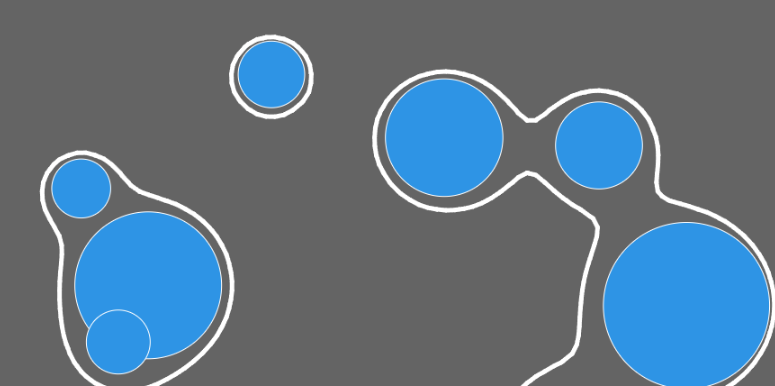
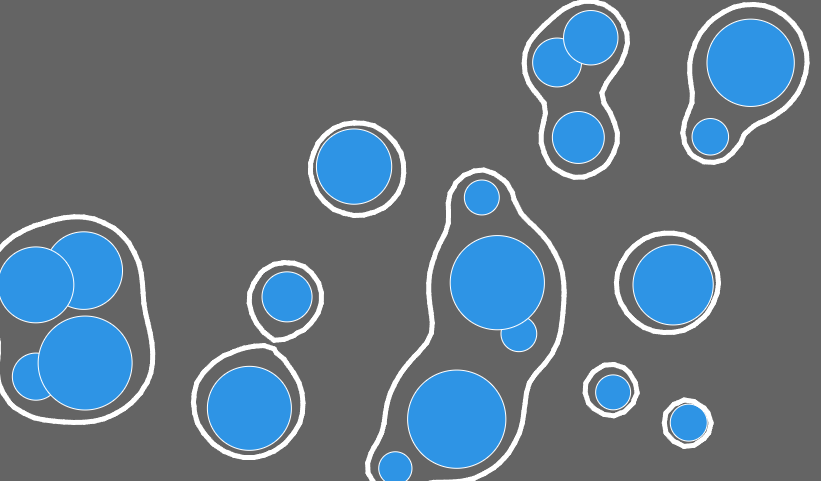
Perceptron como demo p5.js, Bubble en archivo propio, perceptron_process eliminado

diff --git a/projects/perceptron/sketch.js b/projects/perceptron/sketch.js
@@ -1,0 +1,88 @@
+/* Sketch principal — Perceptron
+ * Perceptrón de una capa entrenado sobre 1000 puntos aleatorios.
+ * La frontera de decisión se ajusta en tiempo real hasta clasificar
+ * todos los puntos correctamente. Después, haz clic para evaluar
+ * nuevos puntos.
+ */
+
+var perceptronSketch = function(p) {
+  var neuron;
+  var n = 1000;
+  var attempts = 0;
+  var points = [];
+  var finish = false;
+
+  /* Configuración: canvas, perceptrón y puntos iniciales */
+  p.setup = function() {
+    var contenedor = document.getElementById('p5-canvas');
+    var ancho = contenedor ? contenedor.clientWidth : 560;
+    var alto = contenedor ? contenedor.clientHeight : 400;
+    p.createCanvas(ancho, alto);
+    p.background(150);
+
+    neuron = new Perceptron(p);
+    points = [];
+    for (var i = 0; i < n; i++) {
+      points.push(Point.random(p));
+    }
+  };
+
+  /* Bucle principal: clasifica, dibuja y entrena */
+  p.draw = function() {
+    var done = 1;
+    p.background(150);
+
+    /* Verifica si todos los puntos están correctamente clasificados */
+    for (var i = 0; i < points.length; i++) {
+      var input = [points[i].x, points[i].y, points[i].bias];
+      if (neuron.guess(input) !== points[i].label) {
+        done = 0;
+        break;
+      }
+    }
+
+    /* Dibuja cada punto con la predicción actual */
+    for (var i = 0; i < points.length; i++) {
+      var inp = [points[i].x, points[i].y, points[i].bias];
+      points[i].display(neuron.guess(inp));
+    }
+
+    /* Línea objetivo (negra) — la función f(x) que queremos aprender */
+    var pa1 = new Point(p, -1, f(-1));
+    var pb1 = new Point(p, 1, f(1));
+    p.stroke(0);
+    p.strokeWeight(1);
+    p.line(pa1.pixelX(), pa1.pixelY(), pb1.pixelX(), pb1.pixelY());
+
+    /* Línea ajustada por el perceptrón (blanca) */
+    var px1 = new Point(p, -1, neuron.guessY(-1));
+    var py1 = new Point(p, 1, neuron.guessY(1));
+    p.stroke(255);
+    p.strokeWeight(2);
+    p.line(px1.pixelX(), px1.pixelY(), py1.pixelX(), py1.pixelY());
+
+    /* Entrena el perceptrón con todos los puntos en cada frame */
+    if (!finish) {
+      for (var i = 0; i < points.length; i++) {
+        var inp = [points[i].x, points[i].y, points[i].bias];
+        neuron.train(inp, points[i].label);
+      }
+      attempts++;
+    }
+
+    /* Cuando clasifica todos correctamente, se detiene el entrenamiento */
+    if (done === 1 && !finish) {
+      console.log('Entrenamiento completado en', attempts, 'intentos');
+      finish = true;
+    }
+  };
+
+  /* Después del entrenamiento, agrega un punto donde se hace clic */
+  p.mousePressed = function() {
+    if (!finish) return;
+    if (p.mouseX < 0 || p.mouseX > p.width || p.mouseY < 0 || p.mouseY > p.height) return;
+    var nx = p.map(p.mouseX, 0, p.width, -1, 1);
+    var ny = p.map(p.mouseY, 0, p.height, 1, -1);
+    points.push(new Point(p, nx, ny));
+  };
+};

diff --git a/projects/marching_squares/sketch.js b/projects/marching_squares/sketch.js
@@ -14,7 +14,7 @@ var marchingSquaresSketch = function(p) {
   /* Toggles visuales */
   var grid = false;
   var balls = true;
-  var inter = false;
+  var inter = true;
   var rec = false;
 
   /* Índices de esquinas para cada arista de una celda */
@@ -28,30 +28,6 @@ var marchingSquaresSketch = function(p) {
     {x: 0, y: 1}
   ];
 
-  /* Metaball que genera influencia en el campo escalar */
-  function Bubble(x, y) {
-    this.r = p.random(10, 100);
-    this.x = x !== undefined ? x : p.random(this.r, p.width - this.r);
-    this.y = y !== undefined ? y : p.random(this.r, p.height - this.r);
-    this.vx = p.random(-2, 2);
-    this.vy = p.random(-2, 2);
-  }
-
-  Bubble.prototype.show = function() {
-    p.noFill();
-    p.stroke(255);
-    p.strokeWeight(1);
-    p.fill('#2E94E5');
-    p.circle(this.x, this.y, this.r * 2);
-  };
-
-  Bubble.prototype.update = function() {
-    this.x += this.vx;
-    this.y += this.vy;
-    if (this.x > p.width - this.r || this.x < this.r) this.vx *= -1;
-    if (this.y > p.height - this.r || this.y < this.r) this.vy *= -1;
-  };
-
   /* Configuración: canvas, grilla del campo y burbujas iniciales */
   p.setup = function() {
     var contenedor = document.getElementById('p5-canvas');
@@ -63,7 +39,7 @@ var marchingSquaresSketch = function(p) {
     rows = Math.floor(p.height / res) + 1;
     Field = new Array(rows);
     for (var i = 0; i < rows; i++) Field[i] = new Array(cols);
-    for (var i = 0; i < 16; i++) bubbles.push(new Bubble());
+    for (var i = 0; i < 16; i++) bubbles.push(new Bubble(p));
   };
 
   /* Bucle principal: calcula el campo, dibuja contornos y metaballs */
@@ -168,7 +144,7 @@ var marchingSquaresSketch = function(p) {
   /* Mouse: clic izquierdo agrega burbuja, derecho la elimina */
   p.mousePressed = function() {
     if (p.mouseButton === p.LEFT) {
-      bubbles.push(new Bubble(p.mouseX, p.mouseY));
+      bubbles.push(new Bubble(p, p.mouseX, p.mouseY));
     } else if (p.mouseButton === p.RIGHT) {
       if (bubbles.length > 1) bubbles.shift();
     }

diff --git a/js/main.js b/js/main.js
@@ -179,24 +179,18 @@ const projects = [
     color: 'cat-algorithms'
   },
   {
-    id: 'perceptron_process',
-    title: 'Perceptron Process',
-    category: 'ml',
-    subtitle: 'Batch Training Perceptron',
-    description: 'Perceptrón de una capa entrenado en 100 puntos aleatorios con aprendizaje por lotes. Visualiza clasificación con puntos verdes (correctos) y rojos (incorrectos).',
-    tags: ['Processing', 'Perceptron', 'Batch learning', 'Classification'],
-    icon: 'Pp',
-    color: 'cat-ml'
-  },
-  {
-    id: 'perceptron_solo',
-    title: 'Perceptron Solo',
+    id: 'perceptron',
+    title: 'Perceptron',
     category: 'ml',
     subtitle: 'Animated Perceptron Training',
-    description: 'Perceptrón con entrenamiento animado punto por punto sobre 1000 muestras. Muestra la frontera de decisión evolucionando en tiempo real.',
-    tags: ['Processing', 'Perceptron', 'Online learning', 'Decision boundary'],
-    icon: 'Ps',
-    color: 'cat-ml'
+    description: 'Perceptrón de una capa entrenado por lotes sobre 1000 puntos aleatorios. La frontera de decisión evoluciona en tiempo real hasta clasificar correctamente todos los puntos. Después del entrenamiento, haz clic para agregar nuevos puntos y ver cómo los clasifica.',
+    tags: ['p5.js', 'Perceptron', 'Online learning', 'Decision boundary'],
+    icon: 'P',
+    color: 'cat-ml',
+    p5: true,
+    controls: [
+      { key: 'Click (tras entrenar)', action: 'Añade un nuevo punto para clasificar' }
+    ]
   },
   {
     id: 'firma',
@@ -403,6 +397,8 @@ function openModal(id) {
         currentSketch = new p5(flowFieldSketch, 'p5-canvas');
       } else if (id === 'marching_squares') {
         currentSketch = new p5(marchingSquaresSketch, 'p5-canvas');
+      } else if (id === 'perceptron') {
+        currentSketch = new p5(perceptronSketch, 'p5-canvas');
       }
     });
   } else {

diff --git a/index.html b/index.html
@@ -46,7 +46,7 @@
       <div class="hero-content">
         <span class="hero-tag">Ingeniero Civil en Informática</span>
         <h1>Claudio<br>Alarcón <span>.</span></h1>
-        <p>Ingeniero Civil en Informática orientado al desarrollo full-stack, bases de datos y automatización, con experiencia además en gráficos interactivos, simulaciones físicas, visualización de datos y ciberseguridad. Transformo ideas en código.</p>
+        <p>Ingeniero Civil en Informática orientado al desarrollo full-stack, bases de datos y automatización, con experiencia además en gráficos interactivos, simulaciones físicas, visualización de datos y ciberseguridad. Transformo tus ideas en código.</p>
         <div class="hero-actions">
           <a href="#proyectos" class="btn btn-primary">Ver proyectos ↓</a>
           <a href="#contacto" class="btn btn-outline">Contacto</a>
@@ -281,7 +281,11 @@
   <script src="projects/fractal_tree/sketch.js"></script>
   <script src="projects/flow_field/particle.js"></script>
   <script src="projects/flow_field/sketch.js"></script>
+  <script src="projects/marching_squares/bubble.js"></script>
   <script src="projects/marching_squares/sketch.js"></script>
+  <script src="projects/perceptron/point.js"></script>
+  <script src="projects/perceptron/perceptron.js"></script>
+  <script src="projects/perceptron/sketch.js"></script>
   <script src="js/main.js"></script>
 </body>
 </html>

diff --git a/projects/perceptron/point.js b/projects/perceptron/point.js
@@ -1,0 +1,46 @@
+/* Función lineal objetivo que separa las dos clases */
+function f(x) {
+  return 0.5 * x + 0.1;
+}
+
+/* Punto con coordenadas normalizadas (-1 a 1) y su etiqueta
+ * La etiqueta se asigna según su posición respecto a f(x).
+ */
+
+class Point {
+  constructor(p, x_, y_) {
+    this.p = p;
+    this.x = x_;
+    this.y = y_;
+    this.bias = 1;
+    this.label = this.y < f(this.x) ? -1 : 1;
+  }
+
+  /* Convierte coordenada X normalizada a píxeles */
+  pixelX() {
+    return this.p.map(this.x, -1, 1, 0, this.p.width);
+  }
+
+  /* Convierte coordenada Y normalizada a píxeles */
+  pixelY() {
+    return this.p.map(this.y, -1, 1, this.p.height, 0);
+  }
+
+  /* Crea un punto en una posición aleatoria del espacio normalizado */
+  static random(p) {
+    return new Point(p, p.random(-1, 1), p.random(-1, 1));
+  }
+
+  /* Dibuja el punto: círculo exterior (blanco/negro según predicción)
+   * e interior (verde si acierta, rojo si se equivoca) */
+  display(guess) {
+    var px = this.pixelX();
+    var py = this.pixelY();
+    if (guess === -1) this.p.fill(0);
+    else this.p.fill(255);
+    this.p.ellipse(px, py, 25, 25);
+    if (guess === this.label) this.p.fill(0, 255, 0);
+    else this.p.fill(255, 0, 0);
+    this.p.ellipse(px, py, 12, 12);
+  }
+}

diff --git a/projects/marching_squares/bubble.js b/projects/marching_squares/bubble.js
@@ -1,0 +1,32 @@
+/* Metaball que genera influencia en el campo escalar.
+ * Cada burbuja aporta su masa al cálculo del campo
+ * y rebota contra los bordes del canvas.
+ */
+
+class Bubble {
+  constructor(p, x, y) {
+    this.p = p;
+    this.r = p.random(10, 50);
+    this.x = x !== undefined ? x : p.random(this.r, p.width - this.r);
+    this.y = y !== undefined ? y : p.random(this.r, p.height - this.r);
+    this.vx = p.random(-2, 2);
+    this.vy = p.random(-2, 2);
+  }
+
+  /* Dibuja la burbuja como un círculo azul semitransparente */
+  show() {
+    this.p.noFill();
+    this.p.stroke(255);
+    this.p.strokeWeight(1);
+    this.p.fill('#2E94E5');
+    this.p.circle(this.x, this.y, this.r * 2);
+  }
+
+  /* Actualiza la posición y rebota contra los bordes */
+  update() {
+    this.x += this.vx;
+    this.y += this.vy;
+    if (this.x > this.p.width - this.r || this.x < this.r) this.vx *= -1;
+    if (this.y > this.p.height - this.r || this.y < this.r) this.vy *= -1;
+  }
+}

diff --git a/projects/perceptron/perceptron.js b/projects/perceptron/perceptron.js
@@ -1,0 +1,35 @@
+/* Perceptrón de una capa con 3 pesos (x, y, bias)
+ * Ajusta sus pesos mediante la regla de aprendizaje
+ * del perceptrón (error × entrada × tasa de aprendizaje).
+ */
+
+class Perceptron {
+  constructor(p) {
+    this.p = p;
+    this.w = [p.random(-1, 1), p.random(-1, 1), p.random(-1, 1)];
+    this.lr = 0.01;
+  }
+
+  /* Predice la clase de una entrada: 1 o -1 */
+  guess(input) {
+    var sum = 0;
+    for (var i = 0; i < this.w.length; i++) {
+      sum += input[i] * this.w[i];
+    }
+    return sum < 0 ? -1 : 1;
+  }
+
+  /* Ajusta los pesos según el error entre la predicción y el valor real */
+  train(input, target) {
+    var g = this.guess(input);
+    var error = target - g;
+    for (var i = 0; i < this.w.length; i++) {
+      this.w[i] += error * input[i] * this.lr;
+    }
+  }
+
+  /* Calcula la Y de la recta de decisión para una X dada */
+  guessY(x) {
+    return -(this.w[2] + this.w[0] * x) / this.w[1];
+  }
+}
